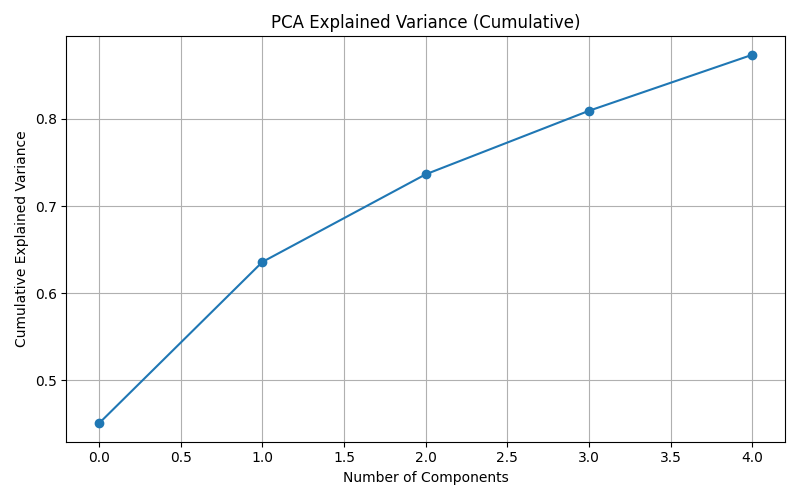
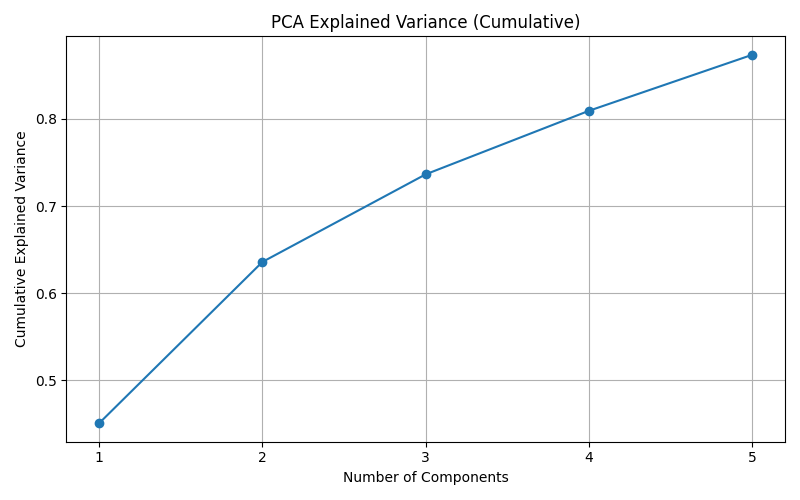
pca graph bug fix

diff --git a/gfwm-app/data_science/machine_learning/models/pca.py b/gfwm-app/data_science/machine_learning/models/pca.py
@@ -97,15 +97,17 @@ def save_plots(pca, X_pca, reconstruction_errors, output_path):
 
     # ----- 1. Explained Variance Plot -----
     plt.figure(figsize=(8, 5))
-    plt.plot(np.cumsum(pca.explained_variance_ratio_), marker="o")
+    cum_var = np.cumsum(pca.explained_variance_ratio_)
+    components = np.arange(1, len(cum_var) + 1)
+    plt.plot(components, cum_var, marker="o")
     plt.title("PCA Explained Variance (Cumulative)")
     plt.xlabel("Number of Components")
     plt.ylabel("Cumulative Explained Variance")
+    plt.xticks(components)
     plt.grid(True)
     plt.tight_layout()
     plt.savefig(os.path.join(output_path, "pca_explained_variance.png"))
     plt.close()
-
 
     # ----- 2. Scatter Plot of First Two PCA Components -----
     plt.figure(figsize=(7, 6))
